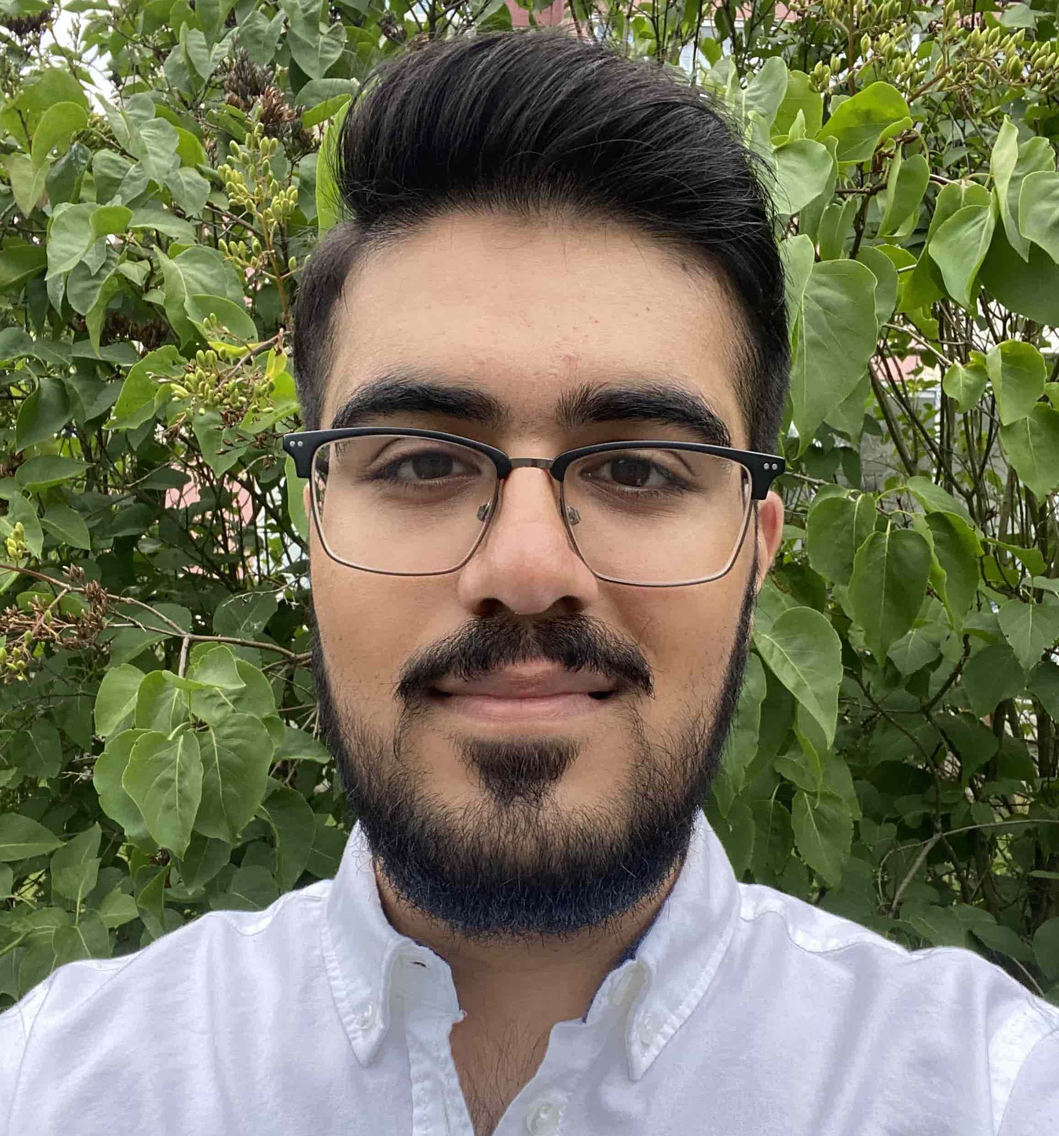
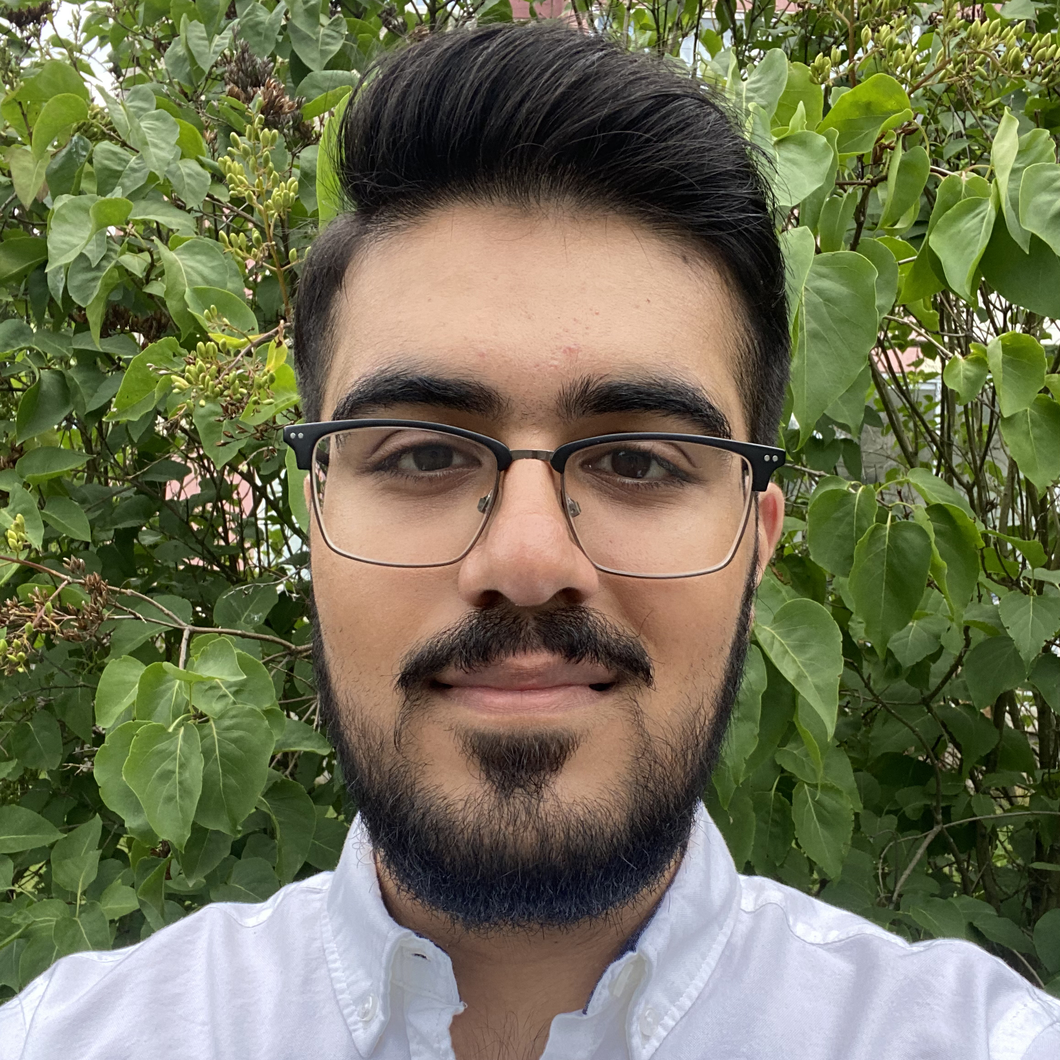
Done with resume.

diff --git a/index.html b/index.html
@@ -106,13 +106,28 @@
 
       <ul class="intro-social">
         <li>
-          <a href="https://www.linkedin.com/in/ali-alladin/" target="_blank" rel="noopener noreferrer"><i class="fa fa-linkedin"></i></a>
+          <a
+            href="https://www.linkedin.com/in/ali-alladin/"
+            target="_blank"
+            rel="noopener noreferrer"
+            ><i class="fa fa-linkedin"></i
+          ></a>
         </li>
         <li>
-          <a href="#" target="_blank" rel="noopener noreferrer"><i class="fa fa-instagram"></i></a>
+          <a
+            href="https://www.instagram.com/"
+            target="_blank"
+            rel="noopener noreferrer"
+            ><i class="fa fa-instagram"></i
+          ></a>
         </li>
         <li>
-          <a href="#" target="_blank" rel="noopener noreferrer"><i class="fa fa-whatsapp"></i></a>
+          <a
+            href="https://wa.me/46704254680"
+            target="_blank"
+            rel="noopener noreferrer"
+            ><i class="fa fa-whatsapp"></i
+          ></a>
         </li>
       </ul>
       <!-- /intro-social -->
@@ -129,7 +144,6 @@
 
           <div class="intro-info">
             <img src="images/profile-pic.jpg" alt="Profile Picture" />
-            </p>
           </div>
         </div>
       </div>
@@ -139,7 +153,9 @@
         <div class="col-six tab-full">
           <h3>Profile</h3>
           <p>
-            I am an ambitious 22-year-old software engineering student with a growing passion for technology and all it has to offer in a constant hunt for new challenges!
+            I am an ambitious 22-year-old software engineering student with a
+            growing passion for technology and all it has to offer in a constant
+            hunt for new challenges!
           </p>
 
           <ul class="info-list">
@@ -151,10 +167,10 @@
               <strong>Birth Date:</strong>
               <span>March 8, 2000</span>
             </li>
-			<li>
-				<strong>From:</strong>
-				<span>Trollhättan, Sweden</span>
-			</li>
+            <li>
+              <strong>From:</strong>
+              <span>Trollhättan, Sweden</span>
+            </li>
             <li>
               <strong>Occupation:</strong>
               <span>Software engineering student</span>
@@ -182,10 +198,10 @@
               <div class="progress percent85"><span>85%</span></div>
               <strong>Java</strong>
             </li>
-			<li>
-				<div class="progress percent80"><span>80%</span></div>
-				<strong>Python</strong>
-			</li>
+            <li>
+              <div class="progress percent80"><span>80%</span></div>
+              <strong>Python</strong>
+            </li>
             <li>
               <div class="progress percent75"><span>75%</span></div>
               <strong>UX/UI design</strong>
@@ -194,19 +210,15 @@
               <div class="progress percent70"><span>70%</span></div>
               <strong>Databases</strong>
             </li>
-			<li>
-				<div class="progress percent75"><span>75%</span></div>
-				<strong>Git</strong>
-			</li>
+            <li>
+              <div class="progress percent75"><span>75%</span></div>
+              <strong>Git</strong>
+            </li>
           </ul>
           <!-- /skill-bars -->
-          
-		  <h3>Languages</h3>
-		  <p>
-            Swedish, English, Urdu, Hindi, Gujarati and Spanish
-          </p>
 
-
+          <h3>Languages</h3>
+          <p>Swedish, English, Urdu, Hindi and Gujarati</p>
         </div>
       </div>
 
@@ -231,11 +243,11 @@
           <h5>Resume</h5>
           <h1>More of my credentials.</h1>
 
-          <p class="lead">
-            Lorem ipsum Do commodo in proident enim in dolor cupidatat
-            adipisicing dolore officia nisi aliqua incididunt Ut veniam lorem
-            ipsum Consectetur ut in in eu do.
-          </p>
+          <!-- TODO: Write introduction -->
+          <!-- <p class="lead">
+            Despite my young age I have multiple years of working experience in
+            a variety of different fields.  
+          </p> -->
         </div>
       </div>
       <!-- /section-intro-->
@@ -250,69 +262,103 @@
           <div class="timeline-wrap">
             <div class="timeline-block">
               <div class="timeline-ico">
-                <i class="fa fa-graduation-cap"></i>
+                <i class="fa fa-briefcase"></i>
               </div>
 
               <div class="timeline-header">
-                <h3>UI Designer</h3>
-                <p>July 2015 - Present</p>
+                <h3>Program participant</h3>
+                <p>January 2022 - Present</p>
               </div>
 
               <div class="timeline-content">
-                <h4>Awesome Studio</h4>
+                <h4>UNITECH International</h4>
                 <p>
-                  Lorem ipsum Occaecat do esse ex et dolor culpa nisi ex in
-                  magna consectetur nisi cupidatat laboris esse eiusmod deserunt
-                  aute do quis velit esse sed Ut proident cupidatat nulla esse
-                  cillum laborum occaecat nostrud sit dolor incididunt amet est
-                  occaecat nisi.
+                  The UNITECH International Society is a network where academic
+                  and corporate partners jointly develop a group of talented
+                  young engineers to enable them to successfully manage future
+                  challenges in global industry. UNITECH also provides a
+                  platform for networking and exchange of ideas.
+                  <br />
+                  <br />
+                  The programme consists of:
                 </p>
+                <ul>
+                  <li>Academic Exchange at one of the academic partners</li>
+                  <li>Internship with one of the corporate partners</li>
+                  <li>Management Credits</li>
+                </ul>
               </div>
             </div>
             <!-- /timeline-block -->
 
             <div class="timeline-block">
               <div class="timeline-ico">
-                <i class="fa fa-graduation-cap"></i>
+                <i class="fa fa-briefcase"></i>
               </div>
 
               <div class="timeline-header">
-                <h3>Front-end Developer</h3>
-                <p>July 2014 - June 2015</p>
+                <h3>IT Consultant</h3>
+                <p>August 2021 - May 2022</p>
               </div>
 
               <div class="timeline-content">
-                <h4>Super Cool Agency</h4>
+                <h4>Chalmers Teknologkonsulter AB</h4>
                 <p>
-                  Lorem ipsum Occaecat do esse ex et dolor culpa nisi ex in
-                  magna consectetur nisi cupidatat laboris esse eiusmod deserunt
-                  aute do quis velit esse sed Ut proident cupidatat nulla esse
-                  cillum laborum occaecat nostrud sit dolor incididunt amet est
-                  occaecat nisi incididunt.
+                  Chalmers Teknologkonsulter (CTK) is one of Sweden's largest
+                  student driven consultancy firms. With competencies from the
+                  majority of Chalmers' education programs, CTK offers service
+                  and qualified consulting services to businesses and public
+                  sector. The main business areas are business Development, IT,
+                  and engineering.
+
+                  <br />
+                  <br />
+                  My duties at CTK were:
                 </p>
+                <ul>
+                  <li>Project manager and developer</li>
+                  <li>Development of full stack web applications</li>
+                  <li>
+                    Worked with Node, Angular, Express, Java-/TypeScript etc.
+                  </li>
+                  <li>
+                    Sales and customer contact an important part of the role
+                  </li>
+                </ul>
               </div>
             </div>
             <!-- /timeline-block -->
 
             <div class="timeline-block">
               <div class="timeline-ico">
-                <i class="fa fa-graduation-cap"></i>
+                <i class="fa fa-briefcase"></i>
               </div>
 
               <div class="timeline-header">
-                <h3>Web Designer</h3>
-                <p>May 2013 - June 2014</p>
+                <h3>Teaching Assistant</h3>
+                <p>August 2020 - June 2021</p>
               </div>
 
               <div class="timeline-content">
-                <h4>Great Designs Studio</h4>
-                <p>
-                  Lorem ipsum Occaecat do esse ex et dolor culpa nisi ex in
-                  magna consectetur nisi cupidatat laboris esse eiusmod deserunt
-                  aute do quis velit esse sed Ut proident cupidatat nulla esse
-                  cillum laborum occaecat nostrud sit dolor incididunt amet est
-                  occaecat nisi incididunt.
-                </p>
+                <h4>Chalmers University of Technology</h4>
+                <ul>
+                  <li>Helped students during supervision and lab sessions</li>
+                  <li>Important with good pedagogy and communication skills</li>
+                  <li>
+                    Required solid knowledge in the subjects of the courses
+                  </li>
+                  <br />
+                  <li>
+                    <strong>Courses:</strong>
+                    <ul>
+                      <li>Introductory software development (TDA548)</li>
+                      <li>
+                        Design and implementation of graphical interfaces
+                        (DAT216)
+                      </li>
+                    </ul>
+                  </li>
+                </ul>
               </div>
             </div>
             <!-- /timeline-block -->
@@ -333,69 +379,66 @@
           <div class="timeline-wrap">
             <div class="timeline-block">
               <div class="timeline-ico">
-                <i class="fa fa-briefcase"></i>
+                <i class="fa fa-graduation-cap"></i>
               </div>
 
               <div class="timeline-header">
-                <h3>Master Degree</h3>
-                <p>July 2015 - Present</p>
+                <h3>MSc. Data Science and AI</h3>
+                <p>August 2022 - June 2024</p>
               </div>
 
               <div class="timeline-content">
-                <h4>University of Life</h4>
-                <p>
-                  Lorem ipsum Occaecat do esse ex et dolor culpa nisi ex in
-                  magna consectetur nisi cupidatat laboris esse eiusmod deserunt
-                  aute do quis velit esse sed Ut proident cupidatat nulla esse
-                  cillum laborum occaecat nostrud sit dolor incididunt amet est
-                  occaecat nisi.
-                </p>
+                <h4>Chalmers University of Technology</h4>
+                <ul>
+                  <li><strong>Master thesis:</strong> -</li>
+                  <li><strong>GPA:</strong> -</li>
+                </ul>
               </div>
             </div>
             <!-- /timeline-block -->
 
             <div class="timeline-block">
               <div class="timeline-ico">
-                <i class="fa fa-briefcase"></i>
+                <i class="fa fa-graduation-cap"></i>
               </div>
 
               <div class="timeline-header">
-                <h3>Bachelor Degree</h3>
-                <p>July 2014 - June 2015</p>
+                <h3>Exchange semester</h3>
+                <p>September 2022 - February 2023</p>
               </div>
 
               <div class="timeline-content">
-                <h4>State Design University</h4>
-                <p>
-                  Lorem ipsum Occaecat do esse ex et dolor culpa nisi ex in
-                  magna consectetur nisi cupidatat laboris esse eiusmod deserunt
-                  aute do quis velit esse sed Ut proident cupidatat nulla esse
-                  cillum laborum occaecat nostrud sit dolor incididunt amet est
-                  occaecat nisi incididunt.
-                </p>
+                <h4>Politecnico di Milano</h4>
+                <ul>
+                  <li>Exchange semester in <strong>Milano, Italy</strong>.</li>
+                  <li>
+                    I will take multiple courses in the fields of Computer
+                    Science and Managment.
+                  </li>
+                </ul>
               </div>
             </div>
             <!-- /timeline-block -->
 
             <div class="timeline-block">
               <div class="timeline-ico">
-                <i class="fa fa-briefcase"></i>
+                <i class="fa fa-graduation-cap"></i>
               </div>
 
               <div class="timeline-header">
-                <h3>Bachelor Degree</h3>
-                <p>May 2013 - June 2014</p>
+                <h3>BSc. Software Engineering</h3>
+                <p>August 2019 - June 2022</p>
               </div>
 
               <div class="timeline-content">
-                <h4>Design College</h4>
-                <p>
-                  Lorem ipsum Occaecat do esse ex et dolor culpa nisi ex in
-                  magna consectetur nisi cupidatat laboris esse eiusmod deserunt
-                  aute do quis velit esse sed Ut proident cupidatat nulla esse
-                  cillum laborum occaecat nostrud sit dolor incididunt amet est
-                  occaecat nisi incididunt.
-                </p>
+                <h4>Chalmers University of Technology</h4>
+                <ul>
+                  <li>
+                    <strong>Bachelors thesis:</strong> Algorithmic trading with
+                    long term trading strategies
+                  </li>
+                  <li><strong>GPA:</strong> 4.0</li>
+                </ul>
               </div>
             </div>
             <!-- /timeline-block -->

diff --git a/css/main.css b/css/main.css
@@ -1704,8 +1704,8 @@ header .logo a {
     margin-top: 3rem;
   }
   .intro-info img {
-    height: 6.6rem;
-    width: 6.6rem;
+    height: 10rem;
+    width: 10rem;
     float: none;
     display: inline-block;
   }
